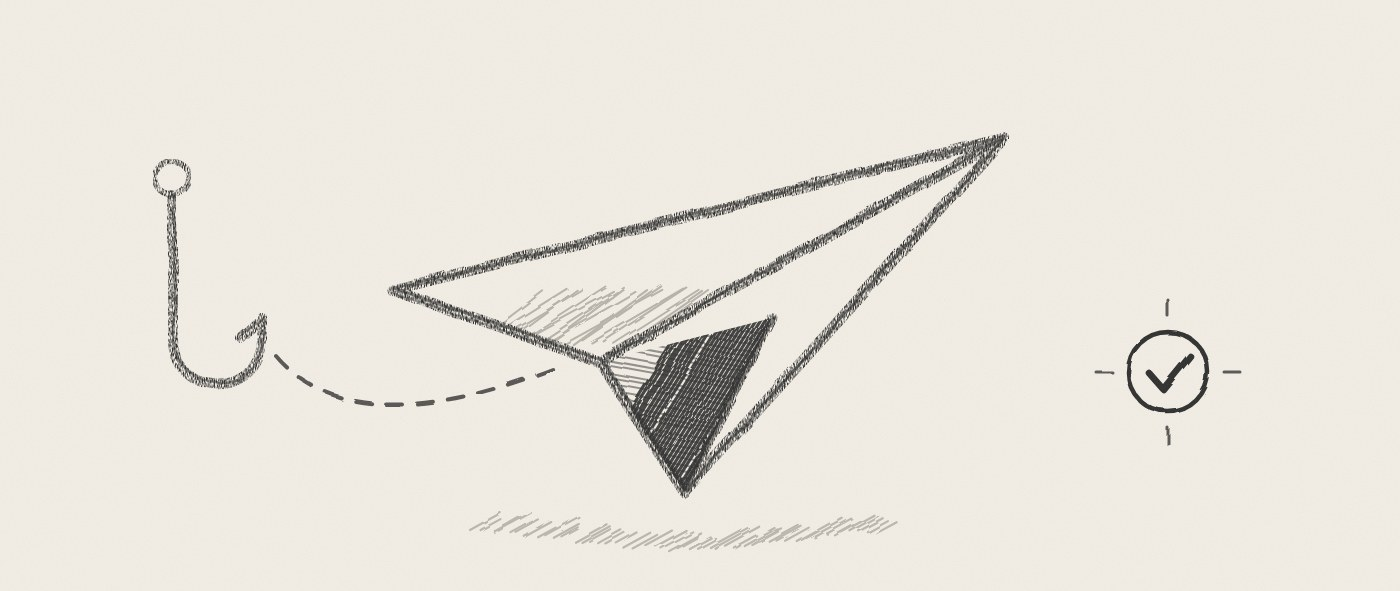
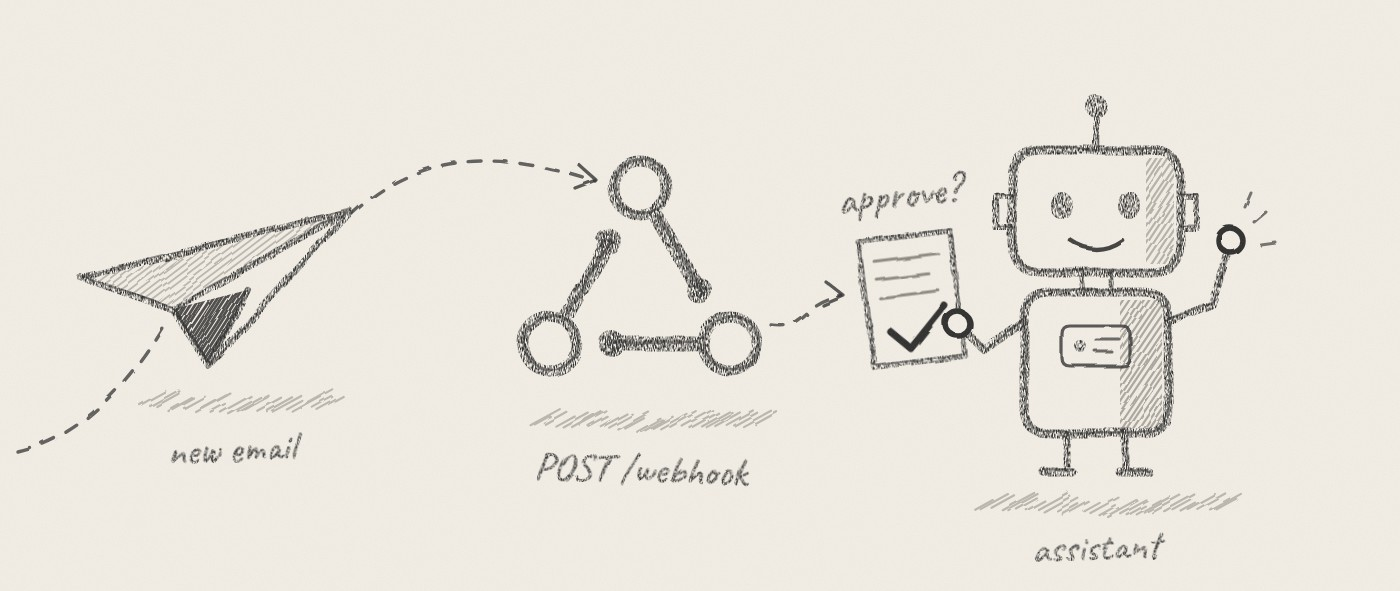
docs: redraw the header sketch and shorten the readme

diff --git a/README.md b/README.md
@@ -1,12 +1,12 @@
 <p align="center">
-  <img src="docs/assets/hero.jpg" width="520" alt="Pencil sketch of a hook catching a paper plane, with an approval tick beside it">
+  <img src="docs/assets/hero.jpg" width="720" alt="Pencil sketch: a new email flies into a webhook, and a small robot assistant holds up a reply asking for approval">
 </p>
 
 <h1 align="center">trigger.dev &lt;&gt; composio</h1>
 
 <p align="center">
-  <b>A webhook-driven AI executive assistant built on Trigger.dev and Composio.</b><br>
-  New Gmail message → drafted reply and meeting invite → <i>you approve</i> → sent.
+  <b>A webhook-driven AI executive assistant.</b><br>
+  New email → drafted reply and invite → <i>you approve</i> → sent.
 </p>
 
 <p align="center">
@@ -18,14 +18,9 @@
   <a href="LICENSE"><img src="https://img.shields.io/badge/license-Apache--2.0-2ea44f" alt="Apache 2.0 license"></a>
 </p>
 
-The app watches a founder's inbox. When an email arrives, Composio sends an event to a
-Trigger.dev **native inbound webhook**. Trigger.dev verifies it, dedupes it and starts a run.
-An agent reads the thread, looks up pricing and policy in the company's own documents, checks
-Google Calendar, and proposes a reply and a meeting time.
-
-Then the run stops. It stays suspended, for days if needed, until a human approves or rejects
-the proposal in a small dashboard. On approval it wakes up, checks the calendar again, and
-sends exactly what was approved.
+An email lands in Gmail. Composio sends it to a Trigger.dev **native inbound webhook**.
+An agent drafts a reply and a meeting time, then the run pauses until you approve it
+in a small dashboard.
 
 There is no webhook route in the Next.js app. Trigger.dev hosts the endpoint.
 
@@ -33,68 +28,43 @@ There is no webhook route in the Next.js app. Trigger.dev hosts the endpoint.
 
 ```mermaid
 flowchart LR
-  G[Gmail inbox] -->|new message| C[Composio trigger]
-  C -->|signed webhook| W[Trigger.dev<br>webhook endpoint]
-  W -->|verified, deduped| I[composio-events<br>filter + intake]
-  I -->|idempotent trigger| P[process-email run]
-  P --> A[AI SDK agent<br>read-only tools]
-  A --> D[Gmail draft +<br>pending approval]
-  D -.->|wait token<br>run suspended| H[Dashboard:<br>approve / reject]
-  H -.->|completeToken| P
-  P -->|recheck calendar| X[Create event,<br>send draft]
+  G[Gmail] --> C[Composio trigger]
+  C -->|signed webhook| W[Trigger.dev endpoint]
+  W --> I[composio-events]
+  I --> P[process-email]
+  P --> A[Agent, read-only tools]
+  A --> D[Draft + pending approval]
+  D -.->|run suspended| H[Dashboard]
+  H -.->|approve| P
+  P --> X[Create event, send reply]
 ```
 
-1. **Receive.** [`src/trigger/composio.ts`](src/trigger/composio.ts) declares the endpoint with
-   `webhooks.composio()` and a `webhook()` task that subscribes to it. Trigger.dev checks
-   Composio's signature and drops retries that carry the same `webhook-id`. A filter keeps
-   everything except new Gmail messages from starting a run.
-2. **Intake.** [`intake.ts`](src/lib/events/intake.ts) validates the payload, matches the
-   connected account to a user, and drops mail the owner sent themselves, bulk mail and
-   automated senders. Two unique constraints make a repeated event or a second event for the
-   same message a no-op.
-3. **Propose.** [`process-email.ts`](src/trigger/process-email.ts) runs one agent
-   ([`analyze.ts`](src/lib/agent/analyze.ts)) with three read-only tools: the Gmail thread,
-   calendar free/busy, and the company documents in [`demo-data/`](demo-data). Code, not the
-   prompt, sets the recipient and validates the meeting time
-   ([`output.ts`](src/lib/agent/output.ts)).
-4. **Wait.** The proposal is stored with a content hash, a Gmail draft is created, and the run
-   suspends on `wait.forToken()`.
-5. **Decide.** The dashboard calls [`decide()`](src/lib/approvals/decide.ts): owner only,
-   once only, before expiry, for the exact hash that was shown. Then `wait.completeToken()`
-   resumes the run. Editing the reply first goes through
-   [`reviseReply()`](src/lib/approvals/revise.ts) under the same rules.
-6. **Execute.** The run rechecks availability, then creates the event and sends the draft
-   through [`runAction()`](src/lib/actions/executor.ts), which never performs the same side
-   effect twice, including after a crash.
+| step | what happens | code |
+| --- | --- | --- |
+| Receive | Signature checked, retries deduped, other events filtered out | [`composio.ts`](src/trigger/composio.ts) |
+| Intake | Self-sent, bulk and repeated mail dropped | [`intake.ts`](src/lib/events/intake.ts) |
+| Propose | Agent reads the thread, calendar and company docs | [`analyze.ts`](src/lib/agent/analyze.ts) |
+| Wait | Proposal hashed, Gmail draft created, run suspends | [`process-email.ts`](src/trigger/process-email.ts) |
+| Decide | Edit, approve or reject. Owner only, once, before expiry | [`decide.ts`](src/lib/approvals/decide.ts) |
+| Execute | Calendar rechecked, event created, draft sent, never twice | [`executor.ts`](src/lib/actions/executor.ts) |
 
-## What it does
+## Features
 
-- **Native webhook intake**: verification, deduplication and delivery tracking are done by
-  Trigger.dev. Every delivery links to the run it started.
-- **Durable human approval**: the wait is a Trigger.dev wait token, not a poll or an open
-  request. A proposal expires after `APPROVAL_TTL_HOURS`.
-- **Grounded replies**: prices and policies come from Markdown files in the repo. A reply
-  written without reading them is rejected before a human sees it.
-- **Restricted tools**: the model only ever gets read-only tools. Sending and scheduling are
-  called from code, after approval, through a separate Composio session.
-- **Immutable approvals**: you approve a hash. If the Gmail draft was edited afterwards, it is
-  not sent.
-- **Editable replies**: change the wording in the dashboard before you approve. The edit is
-  stored as a new version with its own hash and Gmail draft, the old version is kept as
-  replaced, and the same suspended run picks up whichever version you decide on.
-- **Calendar recheck**: if the slot was booked while the proposal waited, nothing is sent and
-  a new proposal is drafted once.
-- **Honest failure states**: each action records its own outcome, so "event created, reply
-  not sent" is reported as exactly that.
-- **Traces**: AI SDK telemetry puts every model call and tool call in the Trigger.dev run
-  trace.
+- **Native webhooks.** Trigger.dev verifies, dedupes and tracks every delivery.
+- **Durable approval.** A wait token, not a poll. It can wait for days.
+- **Grounded replies.** Prices and policies come from [`demo-data/`](demo-data).
+- **Read-only agent.** The model never gets a tool that sends or schedules.
+- **Editable replies.** Each edit is a new version with its own hash and draft.
+- **Calendar recheck.** If the slot was taken while waiting, nothing is sent.
+- **Honest failures.** "Event created, reply not sent" is reported as that.
+- **Traces.** Model calls, tool calls and actions show up in the run.
 
-It also answers plain product questions, drafts a holding reply for customer escalations (no
-meeting, flagged high priority) and skips mail that needs no reply.
+It also answers product questions, drafts a holding reply for escalations, and
+skips mail that needs no reply.
 
 ## Quickstart
 
-You need Node 22, pnpm, Docker, a [Trigger.dev](https://trigger.dev) project, a
+Needs Node 22, pnpm, Docker, a [Trigger.dev](https://trigger.dev) project, a
 [Composio](https://composio.dev) project and an Anthropic API key.
 
 ```bash
@@ -102,120 +72,78 @@ git clone https://github.com/shricodev/executive-assistant-triggerdev-composio
 cd executive-assistant-triggerdev-composio
 pnpm install
 
-cp .env.example .env.local        # fill it in, see below
-docker compose up -d              # Postgres on localhost:5434
+cp .env.example .env.local   # fill it in
+docker compose up -d         # Postgres on localhost:5434
 pnpm db:migrate
 
 npx trigger.dev@latest login
-pnpm trigger:dev                  # terminal 1: registers the webhook endpoint
-pnpm webhooks:setup               # once: points Composio at Trigger.dev
-pnpm dev                          # terminal 2: dashboard on http://localhost:3000
+pnpm trigger:dev             # terminal 1
+pnpm webhooks:setup          # once
+pnpm dev                     # terminal 2, http://localhost:3000
 ```
 
-Open the dashboard, create the owner account, and connect Gmail and Google Calendar under
-**Settings**.
+Then open the dashboard, create the owner account, and connect Gmail and Google
+Calendar under **Settings**. Connect them there, not in Composio's own dashboard:
+the app also creates the Gmail trigger.
 
 ## Environment
 
-| variable | used by | notes |
-| --- | --- | --- |
-| `DATABASE_URL` | app, tasks | Postgres connection string |
-| `APP_URL` | app, tasks | public URL of the dashboard |
-| `BETTER_AUTH_SECRET` | app | `openssl rand -base64 32` |
-| `ALLOWED_EMAILS` | app | comma-separated addresses allowed to sign up |
-| `TRIGGER_SECRET_KEY` | app, setup script | per environment: dev key locally, prod key in production |
-| `TRIGGER_PROJECT_REF` | CLI, app | `proj_...`; also enables run links in the dashboard |
-| `COMPOSIO_API_KEY` | app, tasks, setup script | use a project dedicated to this app |
-| `ANTHROPIC_API_KEY` | tasks | |
-| `AI_MODEL` | tasks | defaults to `claude-sonnet-5-5` |
-| `AI_TRACE_CONTENT` | tasks | record prompts and completions on spans; on in dev, off in prod |
-| `APPROVAL_TTL_HOURS` | tasks | defaults to `48` |
+| variable | notes |
+| --- | --- |
+| `DATABASE_URL` | Postgres connection string |
+| `APP_URL` | public URL of the dashboard |
+| `BETTER_AUTH_SECRET` | `openssl rand -base64 32` |
+| `ALLOWED_EMAILS` | addresses allowed to sign up |
+| `TRIGGER_SECRET_KEY` | dev key locally, prod key in production |
+| `TRIGGER_PROJECT_REF` | `proj_...` |
+| `COMPOSIO_API_KEY` | use a project dedicated to this app |
+| `ANTHROPIC_API_KEY` | |
+| `AI_MODEL` | default `claude-sonnet-5-5` |
+| `AI_TRACE_CONTENT` | record prompts on spans. On in dev, off in prod |
+| `APPROVAL_TTL_HOURS` | default `48` |
 
-Configuration is validated with Zod when the app starts and when a task first needs it. A
-missing variable fails with its name.
-
-## Connect Composio
-
-Accounts are connected from the dashboard, not from a script.
-
-1. Sign in and open **Settings**.
-2. Click **Connect** next to Gmail and complete Google's consent screen. This uses Composio's
-   managed OAuth, so there is no Google Cloud project to create.
-3. Do the same for Google Calendar. It is optional: without it the assistant replies but does
-   not propose meeting times.
-
-Connecting Gmail also creates a `GMAIL_NEW_GMAIL_MESSAGE` trigger for that account, limited to
-the inbox. Composio reports whether the trigger is realtime or polling-backed, and Settings
-shows which one you got.
-
-## Trigger.dev webhook setup
-
-The endpoint is declared in code, so it exists as soon as `pnpm trigger:dev` (or a deploy) has
-run once. Each environment gets its own URL, including dev, so no tunnel is needed.
+## Webhook setup
 
 ```bash
 pnpm webhooks:setup
 ```
 
-This reads the endpoint URL from Trigger.dev, sets it as the Composio project's webhook
-subscription (payload version V3), and stores the signing secret Composio returns on the
-Trigger.dev endpoint. The secret never touches task code or `.env`.
+This reads the endpoint URL from Trigger.dev, sets it as the Composio webhook
+(payload V3), and stores Composio's signing secret on the endpoint. The secret
+never touches task code or `.env`.
 
-A Composio project has one webhook subscription. If the project already delivers somewhere
-else the script stops and tells you; pass `--force` to replace it.
+Each environment has its own URL, including dev, so no tunnel is needed. A
+Composio project has one webhook. If it already points elsewhere the script
+stops; pass `--force` to replace it.
 
-To do it by hand instead: copy the URL from **Webhooks → composio** in the Trigger.dev
-dashboard, set it as the webhook URL in Composio, and paste Composio's signing secret into
-**Set signing secret** on the endpoint.
+## Try it
+
+1. From another account, email the connected inbox: *"Could you share pricing
+   for a 20-person team? Are you free for a call next week?"*
+2. In Trigger.dev, open **Webhooks → composio**. The delivery links to its run.
+3. Open the `process-email` run to see the model and tool spans. It is waiting.
+4. In the dashboard, open the proposal under **Approvals**. Edit it if you like.
+5. Click **Approve and send**. The event is created and the reply goes out.
 
 ## Checks
 
 ```bash
-pnpm test        # Vitest: intake, approvals, edits, executor, proposal guards
+pnpm test        # Vitest on an in-memory Postgres, no network
 pnpm typecheck && pnpm lint && pnpm build
 ```
 
-Tests run against an in-memory Postgres ([PGlite](https://pglite.dev)) with the real
-migrations applied. No test touches Gmail, Calendar, Composio or a model.
-
 ## Deploy
 
-The app is three pieces: a Postgres database, the Trigger.dev tasks and the Next.js dashboard.
-
-1. **Database.** Create a Postgres database that both Trigger.dev and your web host can reach.
-   Run `DATABASE_URL=... pnpm db:migrate`.
-2. **Tasks.** In the Trigger.dev dashboard, add `DATABASE_URL`, `APP_URL`, `COMPOSIO_API_KEY`,
-   `ANTHROPIC_API_KEY`, and optionally `AI_MODEL` and `APPROVAL_TTL_HOURS`, to the production
-   environment. Then:
-   ```bash
-   pnpm trigger:deploy
-   ```
-3. **Dashboard.** Deploy the Next.js app to Vercel or any Node host with every variable from
-   the table above. Use the **production** `TRIGGER_SECRET_KEY` and set `APP_URL` to the
-   public URL.
-4. **Webhook.** Use a separate Composio project for production, then run the setup script
-   against production:
-   ```bash
-   TRIGGER_SECRET_KEY=tr_prod_... COMPOSIO_API_KEY=... pnpm webhooks:setup
-   ```
-5. **Accounts.** Sign up with an address from `ALLOWED_EMAILS` and connect Gmail and Calendar.
-
-## Verify it works
-
-1. From another account, email the connected inbox: *"Could you share pricing for a 20-person
-   team? Are you free for a call next week?"*
-2. In Trigger.dev, open **Webhooks → composio → Deliveries**. The delivery is there with its
-   payload and a link to the `composio-events` run.
-3. That run triggers `process-email`. Open it and expand the AI spans to see the model calls
-   and the `getCompanyContext`, `GMAIL_FETCH_MESSAGE_BY_THREAD_ID` and
-   `GOOGLECALENDAR_FREE_BUSY_QUERY` tool calls. The run then shows as waiting.
-4. In the dashboard, **Approvals** shows the proposal. A matching draft is in Gmail.
-5. Optionally click **Edit** to reword the reply. Then click **Approve and send**. The run
-   resumes, creates the calendar event and sends the reply.
-6. Send the same kind of email again and click **Reject**. The draft disappears and nothing is
-   sent.
+1. **Database.** Create a Postgres both services can reach, then
+   `DATABASE_URL=... pnpm db:migrate`.
+2. **Tasks.** Add `DATABASE_URL`, `APP_URL`, `COMPOSIO_API_KEY` and
+   `ANTHROPIC_API_KEY` to the Trigger.dev prod environment, then
+   `pnpm trigger:deploy`.
+3. **Dashboard.** Deploy the Next.js app with every variable above, using the
+   prod `TRIGGER_SECRET_KEY`.
+4. **Webhook.** With a separate Composio project:
+   `TRIGGER_SECRET_KEY=tr_prod_... COMPOSIO_API_KEY=... pnpm webhooks:setup`.
 
 ## License
 
-[Apache 2.0](LICENSE). Larkspur AI, its product, prices and people in `demo-data/` are
-fictional.
+[Apache 2.0](LICENSE). Larkspur AI and everything in `demo-data/` is fictional.
